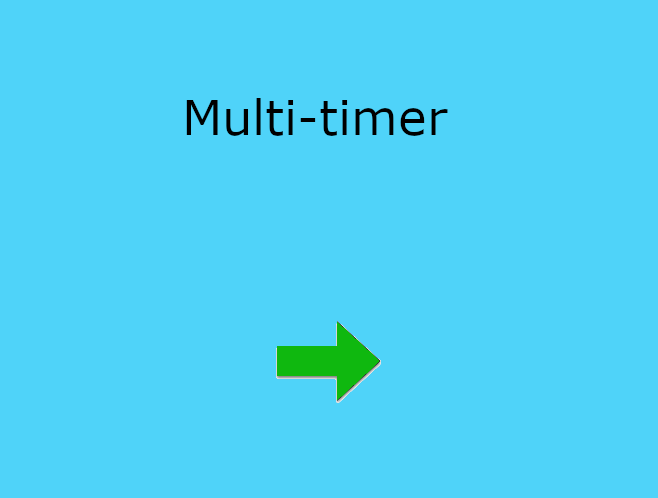
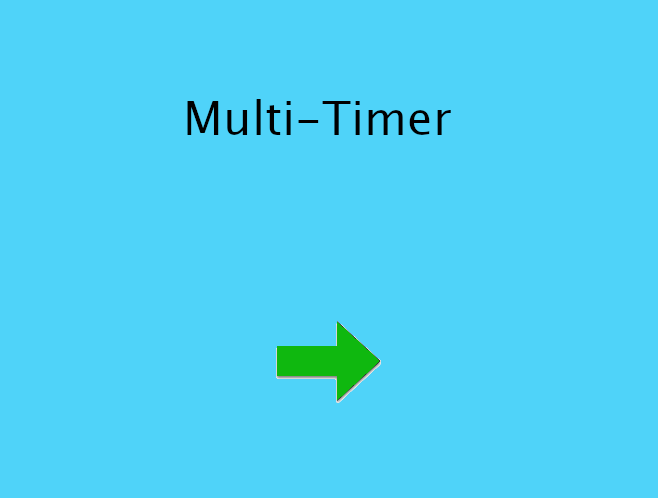
Release v1.2.0

Changed region(s): [[0.2736, 0.1807, 0.6991, 0.2711]]

diff --git a/src/components/About.js b/src/components/About.js
@@ -1,26 +1,104 @@
-import React from 'react'
+import React, { useState, useEffect, useRef } from 'react'
 import Collapse from 'react-bootstrap/Collapse'
 import Card from 'react-bootstrap/Card'
-
+import Spinner from 'react-bootstrap/Spinner'
+import { GoCheck } from 'react-icons/go'
 
 const About = ({open}) => {
 
     const app = {
         name: "Multi-Timer",
-        version: "1.1.0",
+        version: "1.2.0",
         node: "12.16.2",
         electron: "10.4.7",
         react: "16.13.1",
         bootstrap: "4.6.0",
     }
 
+    const [isLastVersion, setIsLastVersion] = useState(null);
+
+    const lastVersion = useRef(null);
+
+    const fetchReleases = async () => {
+        try {
+            const res = await fetch('https://tomilenko.tk/download/releases.json');
+
+            if (res.ok) {
+                return await res.json();
+            }
+            else {
+                return null;
+            }
+        }
+        catch (err) {
+            return null;
+        }
+    }
+
+    useEffect(() => {
+        const versionStatus = document.getElementById('version-check');
+
+        if (isLastVersion) {
+            versionStatus.innerText = "You've got the latest version";
+        }
+        else {
+            if (lastVersion.current !== null) {
+                versionStatus.innerHTML = 'Version ' + lastVersion.current.version + 
+                    ' is availble. <a target="_blank" class="open-externally" href="' + 
+                    lastVersion.current.url + '">Download</a>';
+            }
+            window.electron.configureExternalLinks();
+        }
+    }, [isLastVersion, lastVersion]);
+
     return (
-        <Collapse in={open}>
+        <Collapse in={open}
+            onEntered={async () => {
+                const data =  await fetchReleases();
+
+                if (data !== null) {
+                    const releases = Object.keys(data.releases);
+                    const relHashes = releases.map(i => 
+                        [i, parseInt(i.split('.')[0])*10000 + parseInt(i.split('.')[1])*100 + parseInt(i.split('.')[2]), data.releases[i]])
+
+                    const maxHash = Math.max(...relHashes.map(i => i[1]))
+                    const latestRelease = relHashes.filter(i => i[1] === maxHash)[0]
+
+                    lastVersion.current = {
+                        "version": latestRelease[0], 
+                        "url": latestRelease[2]
+                    };
+
+                    const curVerString = app.version.split('.');
+                    const currentHash = parseInt(curVerString[0])*10000 + parseInt(curVerString[1])*100 + parseInt(curVerString[2]);
+
+                    if (currentHash >= latestRelease[1]) {
+                        setIsLastVersion(true);
+                    }
+                    else {
+                        setIsLastVersion(false);
+                    }
+                }
+                else {
+                    const verCheckHeader = document.getElementById('version-check-header');
+                    verCheckHeader.hidden = true;
+                }
+            }}
+        >
             <section id="about" className="info">
                 <Card>
-                    <Card.Header as="h3">
+                    <Card.Header as="h4">
                         {app.name}
                         <br /><sup className="small">Version {app.version}</sup>
+                    </Card.Header>
+                    <Card.Header id="version-check-header">
+                        <Spinner animation="border" variant="dark" size="sm" 
+                            className={`${isLastVersion === null ? "" : "hidden"}`}
+                        />{' '}
+                        <GoCheck
+                            className={`text-success ${isLastVersion ? "visible" : "hidden"}`}
+                        />{' '}
+                        <span id="version-check">Checking for updates...</span>
                     </Card.Header>
                     <Card.Body>
                     <p>Built with Electron framework and powered by React and Bootstrap.</p>

diff --git a/src/components/Clock.js b/src/components/Clock.js
@@ -145,7 +145,11 @@ const Clock = ({open, timerId, time, getTime, duodecimalClock, setHoursElement, 
     return (
         <Collapse in={open} dimension="width" timeout={100}
             onEntered={() => {
-                document.querySelector('#' + `clock-${timerId}` + ' .hours').focus();
+                const hoursElement = document.querySelector('#' + `clock-${timerId}` + ' .hours');
+                const minutesElement = document.querySelector('#' + `clock-${timerId}` + ' .minutes');
+                hoursElement.focus();
+                setHoursElement(hoursElement);
+                setMinutesElement(minutesElement);
             }}
         >
             <InputGroup className="clock" size="sm" id={`clock-${timerId}`}>

diff --git a/preload.js b/preload.js
@@ -5,4 +5,18 @@ contextBridge.exposeInMainWorld('electron', {
   updateBadge: (data) => {
     ipcRenderer.send('badge', data);
   },
+  configureExternalLinks: () => {
+    const aAll = document.querySelectorAll("a.open-externally");
+    if (aAll && aAll.length) {
+      aAll.forEach(function(a) {
+        a.addEventListener("click", function(event) {
+          if (event.target) {
+            event.preventDefault();
+            let link = event.target.href;
+            require("electron").shell.openExternal(link);
+          }
+        });
+      });
+    }
+  }
 })

diff --git a/src/app.scss b/src/app.scss
@@ -12,6 +12,7 @@ body {
 #title {
     margin-top: .5rem;
     margin-bottom: 0;
+    line-height: 1;
     user-select: none;
     -webkit-user-select: none;
     -webkit-app-region: drag;
@@ -370,7 +371,8 @@ input:checked + .slider:before {
 }
 
 .small {
-    font-size: 50%;
+    font-size: 60%;
+    font-weight: 200;
 }
 
 .card {
@@ -380,4 +382,12 @@ input:checked + .slider:before {
 .card-header, .card-footer {
     background-color: $timer-color;
     border-color: $timer-border;
+}
+
+.hidden {
+    display: none;
+}
+
+#version-check {
+    font-size: .9rem;
 }

diff --git a/main.js b/main.js
@@ -13,7 +13,7 @@ function createWindow() {
     const win = new BrowserWindow({
         titleBarStyle: "hidden",
         width: width,
-        height: 662,
+        height: 659,
         backgroundColor: "white",
         resizable: false,
         show: false,

diff --git a/webpack.config.js b/webpack.config.js
@@ -1,5 +1,4 @@
 const path = require('path');
-// const webpack = require("webpack");
 
 module.exports = {
     mode: 'development',
